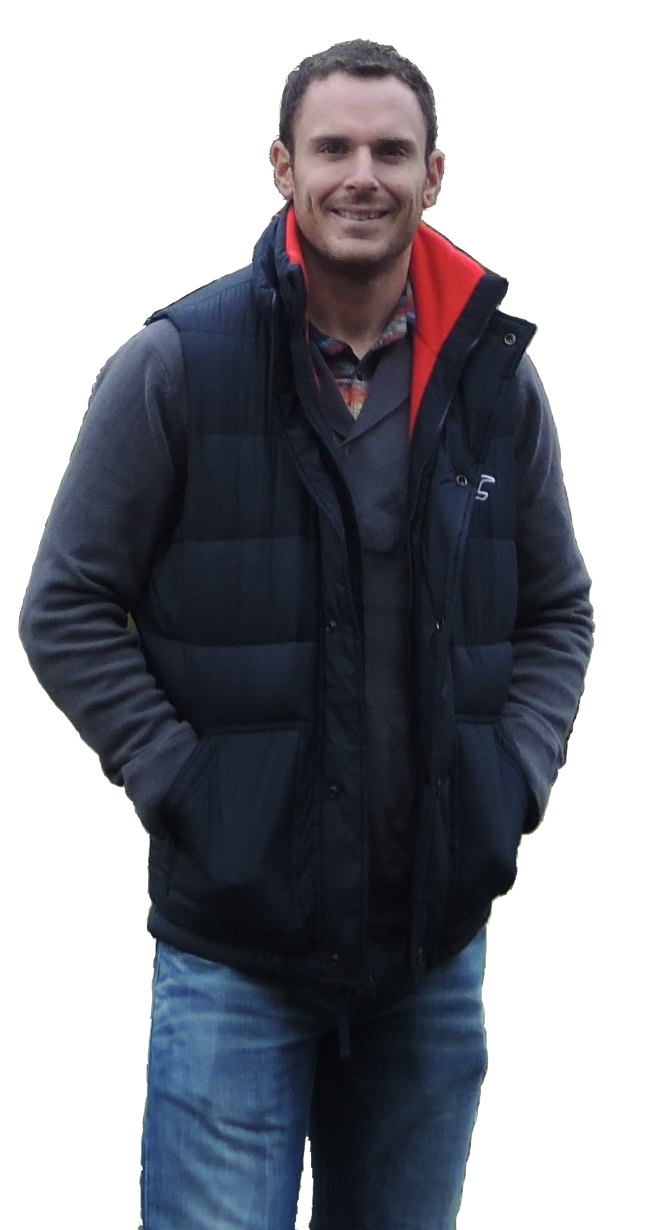
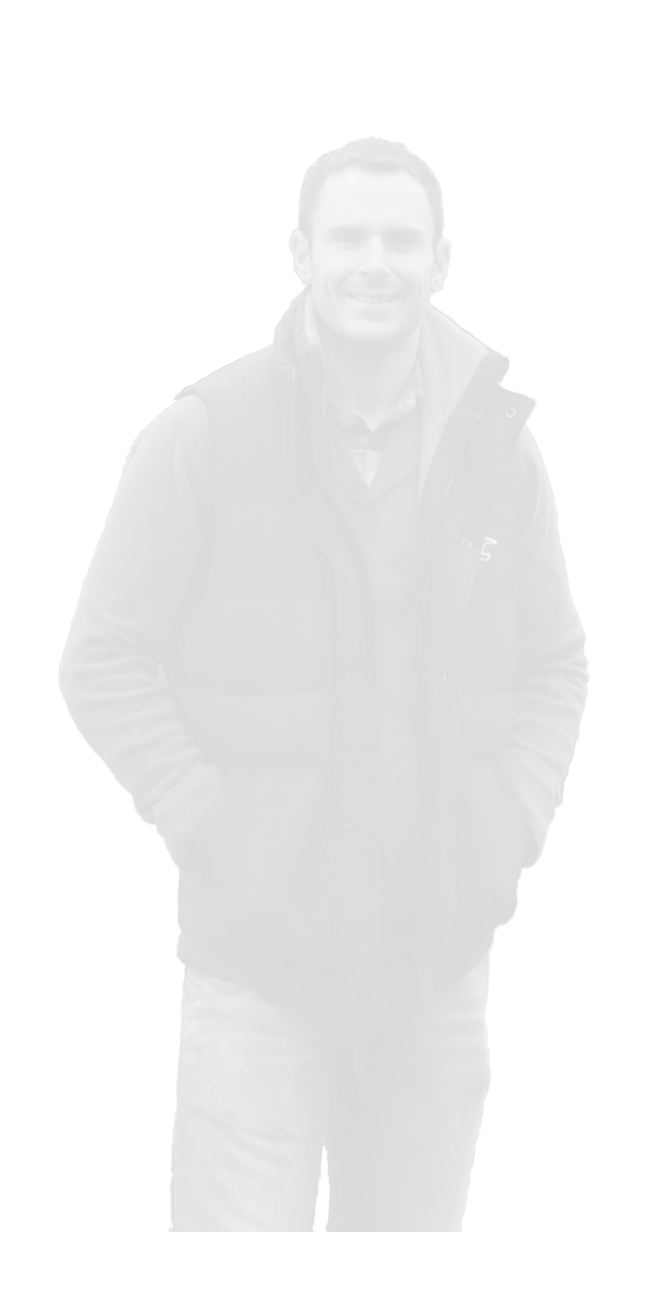
added fade in effect on scroll

diff --git a/app/index.html b/app/index.html
@@ -58,32 +58,38 @@
       </div>
     </section>
     <section class="me-container col-xs-12" id="me">
-      <h2>Hello</h2>
-      <div class="me">
-        <p>
-          I’m Dean, a front end web developer based in Atlanta, GA.
-          I have spent several years influencing people's experiences as a coach and bring that to the world of web development.
-          With a passion for technology, I enjoy building and enhancing web apps that are user-friendly, efficient, and functional.
-        </p>
+      <div class="animateblock">
+        <h2>Hello</h2>
+        <div class="me">
+          <p>
+            I’m Dean, a front end web developer based in Atlanta, GA.
+            I have spent several years influencing people's experiences as a coach and bring that to the world of web development.
+            With a passion for technology, I enjoy building and enhancing web apps that are user-friendly, efficient, and functional.
+          </p>
+        </div>
       </div>
     </section>
     <section class="tech-container col-xs-12" id="tech">
-      <h2>Tech</h2>
+      <h2 class="animateblock">Tech</h2>
       <div class="tech-content">
-        <img src="../images/laptopPlusbw.png" alt="picture of a laptop" />
-        <div class="pic-overlay">
-          <img src="../images/laptopPlus.png" alt="picture of a laptop" />
+        <div class="animateblock">
+          <img src="../images/laptopPlusbw.png" alt="picture of a laptop" />
+          <div class="pic-overlay">
+            <img src="../images/laptopPlus.png" alt="picture of a laptop" />
+          </div>
         </div>
-        <p>
-          With an ongoing drive to better myself and the experiences I provide users, I continue to learn and work with new technologies.
-          So far, I have worked with the above technologies and look forward to opportunities to further expand and explore.
-        </p>
+        <div class="animateblock">
+          <p>
+            With an ongoing drive to better myself and the experiences I provide users, I continue to learn and work with new technologies.
+            So far, I have worked with the above technologies and look forward to opportunities to further expand and explore.
+          </p>
+        </div>
       </div>
     </section>
     <section class="work-container col-xs-12" id="work">
-      <h2>Work</h2>
+      <h2 class="animateblock">Work</h2>
       <div class="work-content">
-        <div class="myPlanit-app col-xs-12 col-sm-4">
+        <div class="myPlanit-app animateblock col-xs-12 col-sm-4">
           <div class="overlay-container">
             <img src="../images/myPlanitapp.png" />
             <div class="overlay">
@@ -143,7 +149,7 @@
             </div>
           </div>
         </div>
-        <div class="blog-app col-xs-12 col-sm-4">
+        <div class="blog-app animateblock col-xs-12 col-sm-4">
           <div class="overlay-container">
             <img src="../images/travelblog.png" />
             <div class="overlay">
@@ -191,7 +197,7 @@
             </div>
           </div>
         </div>
-        <div class="fns-app col-xs-12 col-sm-4">
+        <div class="fns-app animateblock col-xs-12 col-sm-4">
           <div class="overlay-container">
             <img src="../images/fns.png" />
             <div class="overlay">
@@ -240,7 +246,7 @@
             </div>
           </div>
         </div>
-        <div class="game-app col-xs-12 col-sm-4">
+        <div class="game-app animateblock col-xs-12 col-sm-4">
           <div class="overlay-container">
             <img src="../images/thearena.png" />
             <div class="overlay">
@@ -285,7 +291,7 @@
             </div>
           </div>
         </div>
-        <div class="todo-app col-xs-12 col-sm-4">
+        <div class="todo-app animateblock col-xs-12 col-sm-4">
           <div class="overlay-container">
             <img src="../images/todo.png" />
             <div class="overlay">
@@ -332,7 +338,7 @@
             </div>
           </div>
         </div>
-        <div class="snp-app col-xs-12 col-sm-4">
+        <div class="snp-app animateblock col-xs-12 col-sm-4">
           <div class="overlay-container">
             <img src="../images/snp.png" />
             <div class="overlay">
@@ -380,7 +386,7 @@
     <section class="contact-container col-xs-12" id="contact">
       <h2>Get In Touch</h2>
       <p>I am motivated by environments where people care about what they do, take pride in their performance and work hard but enjoy life.</p>
-      <div class="icons">
+      <div class="icons animateblock">
         <a href="mailto:gilewiczd@gmail.com?Subject=Hello%20I%20saw%20your%20portfolio%and..." target="_top"><i class="fa fa-envelope-o"></i>
         <a href="tel:7703598273"><i class="fa fa-phone"></i></a>
         <a href="resume.pdf"><i class="fa fa-file-text-o"></i></a>

diff --git a/app/styles/main.scss b/app/styles/main.scss
@@ -121,9 +121,9 @@ body {
         font-size: 8em;
         font-weight: 700;
         &:last-child {
-          padding: 2% 0%;
+          padding: 2% 0% 2% 0%;
           i {
-            font-size: 2em;
+            font-size: 2.5em;
           }
         }
       }
@@ -230,7 +230,7 @@ body {
     background-color: #F5F5F5;
     text-align: center;
     font-weight: 700;
-    background-image: url('../images/MeBWtrans.png');
+    background-image: url('../images/me.png');
     background-repeat: no-repeat;
     background-attachment: fixed;
     background-size: contain;
@@ -272,7 +272,7 @@ body {
         height: 80px;
       }
       .arrow-top a {
-        color: red;
+        color: #fff;
       }
       li {
         position: relative;
@@ -302,3 +302,93 @@ body {
     }
   }
 }
+
+
+// animated elements base settings
+.animateblock {
+  opacity: 0;
+  -webkit-transition: all 0.85s linear;
+  -moz-transition: all 0.85s linear;
+  transition: all 0.85s linear;
+}
+.animateblock.animated {
+  opacity: 1;
+}
+
+
+/* animation transition styles */
+// .animateblock.left {
+//   margin-left: -2%;
+// }
+// .animateblock.left.animated {
+//   margin-left: 12%;
+// }
+//
+// .animateblock.right {
+//   display: block;
+//   margin-left: 100%;
+// }
+// .animateblock.right.animated {
+//   margin-left: 70%;
+// }
+//
+// .animateblock.top {
+//   display: block;
+//   width: auto;
+//   text-align: center;
+//   margin-top: -25px;
+// }
+// .animateblock.top.animated {
+//   margin-top: 0px;
+// }
+//
+// .animateblock.btm {
+//   display: block;
+//   width: auto;
+//   text-align: center;
+//   margin-top: 25px;
+// }
+// .animateblock.btm.animated {
+//   margin-top: 0;
+// }
+//
+// .animateblock.centerleft {
+//   display: block;
+//   width: auto;
+//   text-align: center;
+//   margin-right: -10%;
+// }
+// .animateblock.centerleft.animated {
+//   margin-right: 0;
+// }
+//
+// .animateblock.centerright {
+//   display: block;
+//   width: auto;
+//   text-align: center;
+//   margin-left: -10%;
+// }
+// .animateblock.centerright.animated {
+//   margin-left: 0;
+// }
+//
+// .animateblock.center {
+//   margin-left: 0%;
+// }
+// .animateblock.center.animated {
+//   margin-left: 0%;
+// }
+//
+// .animateblock.size {
+//   display: block;
+//   width: 10%;
+//   text-align: center;
+// }
+// .animateblock.size.animated {
+//   width: 100%;
+//   height: 100%;
+// }
+// .animateblock.size img {
+//   max-width: 100%;
+//   height: auto;
+// }

diff --git a/app/scripts/main.js b/app/scripts/main.js
@@ -39,9 +39,15 @@ $(function() {
 });
 
 
-// $('.male').on('click', function () {
-//   $('.social').toggleClass('toggle-show');
-// });
+
+
+
+// resets the carousel slider when move cursor out from overlay and pauses so doesn't auto cycle
+$(function() {
+  $('.overlay').mouseleave(function() {
+    $(this).carousel(0).carousel('pause');
+  });
+});
 
 // position the slide in below at exact height to replace current content on hover
 $(function() {
@@ -52,21 +58,36 @@ $(function() {
   });
 });
 
-// resets the carousel slider when move cursor out from overlay and pauses so doesn't auto cycle
-$(function() {
-  $('.overlay').mouseleave(function() {
-    $(this).carousel(0).carousel('pause');
+
+
+
+
+// runs animation based on window scroll
+$(function(){
+  var $elems = $('.animateblock');
+  var winheight = $(window).height();
+  var fullheight = $(document).height();
+  var $elm;
+
+  $(window).scroll(function(){
+    animate_elems();
   });
-});
-//scrolls to targeted id
-// $('body').scrollspy({ target: '.navbar-fixed-top' });
-//
-// //waypoint for animation
-// $('.cd-color-2').waypoint(function(direction) {
-//   $('.img-skill').removeClass('imgnone');
-//   $('.imgleft').addClass('animated bounceInLeft');
-//   $('.imgcenter').addClass('animated bounceIn');
-//   $('.imgright').addClass('animated bounceInRight');
-// }, {
-//   offset: '50%'
-// });
+
+  function animate_elems() {
+    wintop = $(window).scrollTop(); // calculate distance from top of window
+
+    // loop through each item to check when it animates
+    $elems.each(function(){
+      $elm = $(this);
+
+      if($elm.hasClass('animated')) { return true; } // if already animated skip to the next one
+
+        topcoords = $elm.offset().top; // element's distance from top of page in pixels
+
+        if(wintop > (topcoords - (winheight*.75))) {
+          // animate when top of the window is 3/4 above the element
+          $elm.addClass('animated');
+        }
+      });
+    } // end animate_elems()
+  });
